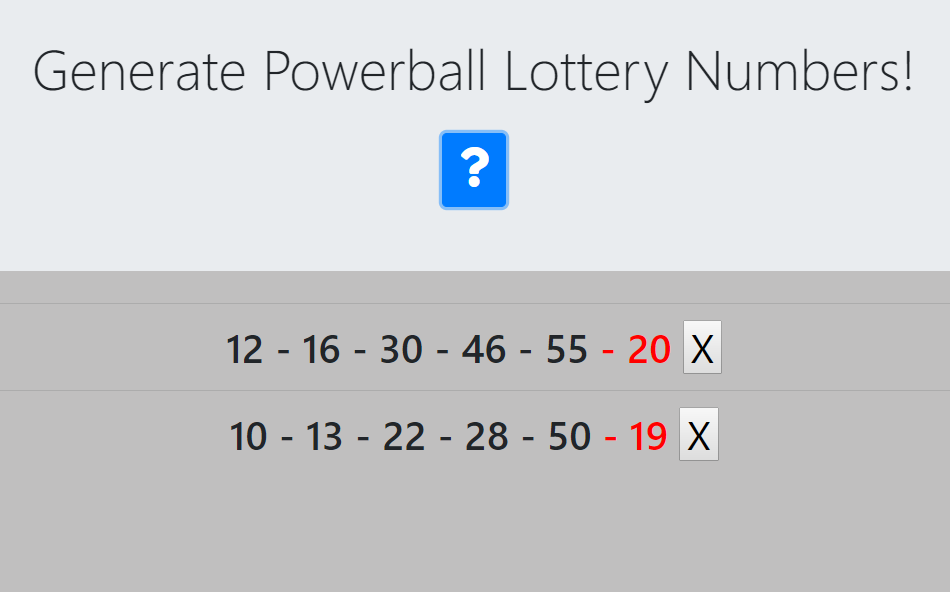
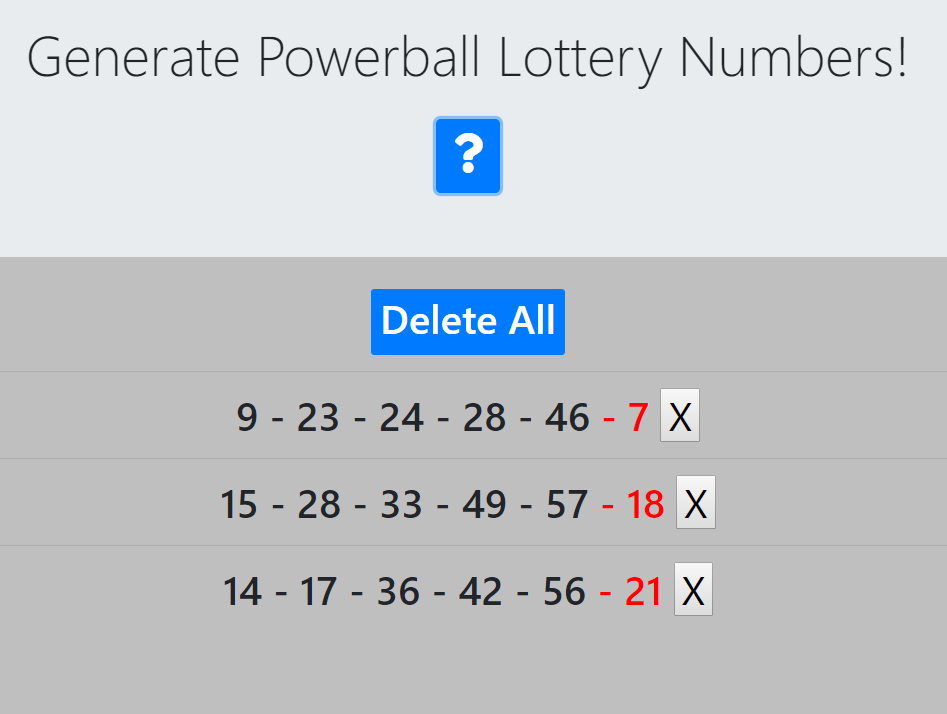
add delete all button

diff --git a/lottery-generator.html b/lottery-generator.html
@@ -32,7 +32,10 @@
             </button>
         </div>
     </div>
-    <div id="numberList">
+    <div class="text-center" id="numberList">
+            <button class="btn btn-primary btn-sm" id="clear-all">
+                    <h1>Delete All</span></h1>
+                </button>
         <h1 class="text-center" id="random-number"></h1>
     </div>
 
@@ -94,6 +97,10 @@
             // or
             // $(this).closest('div').remove();
         });
+
+        $("#clear-all").on("click", function() {
+            location.reload();
+        })
 
 
     </script>
